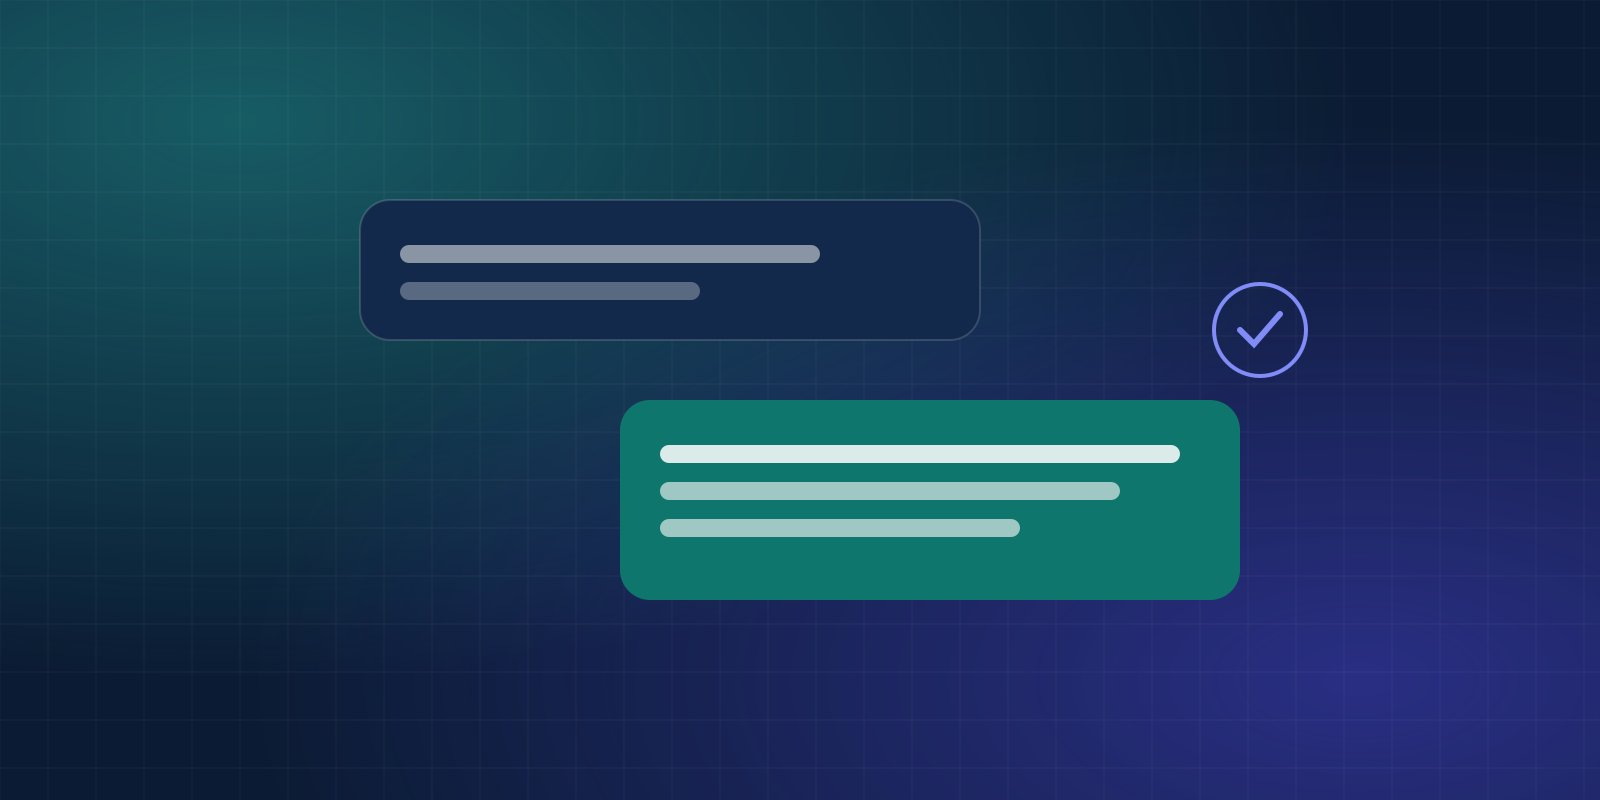
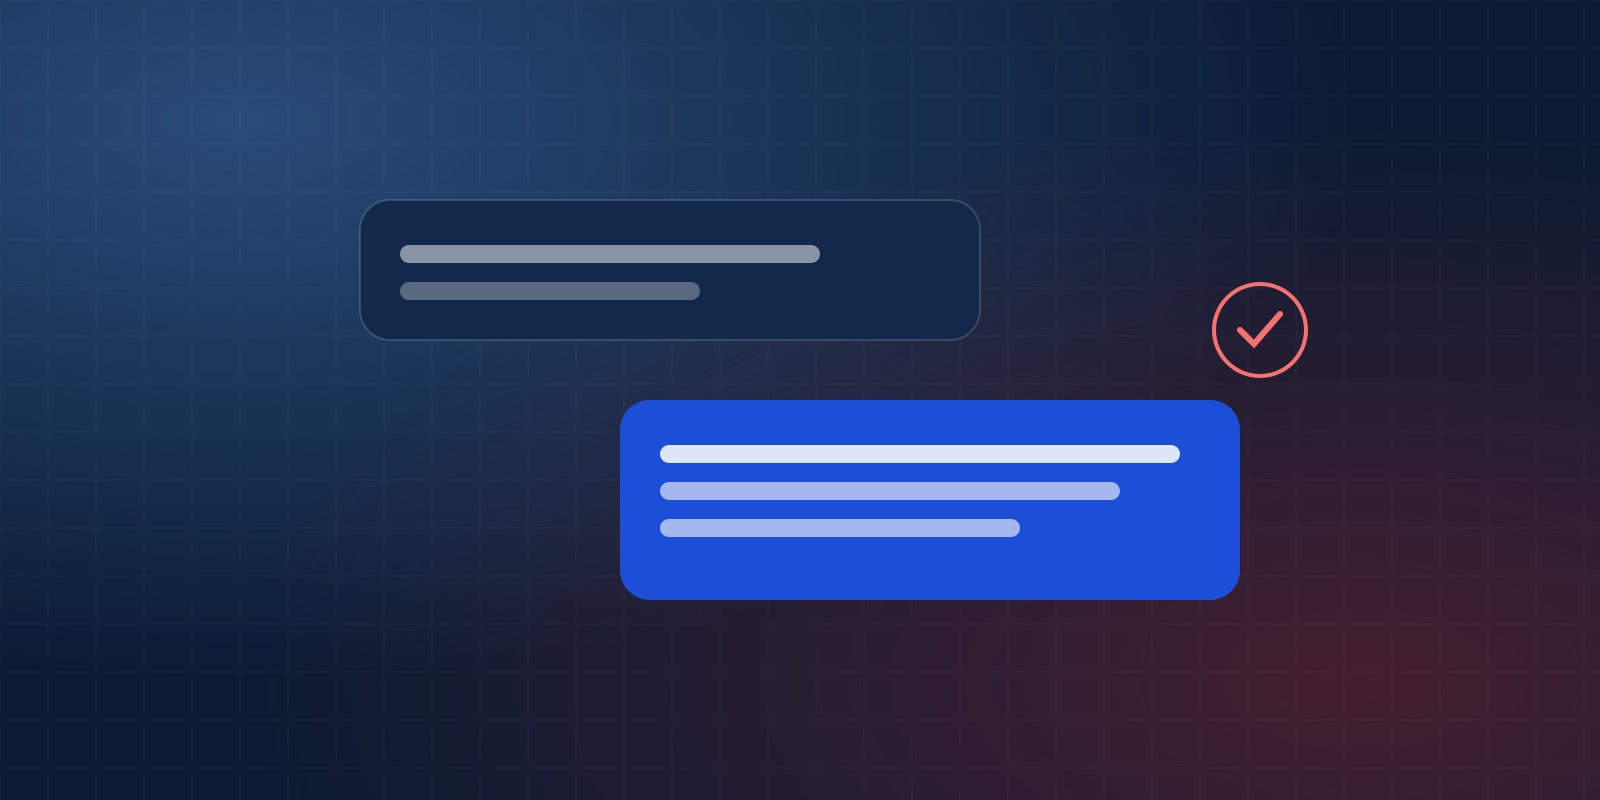
Rebrand to Downstream Data Co. with blue primary and red accent
- Blue (#1d4ed8) for buttons, links and icons; red (#c62828) for section
  toppers, footer underlines and highlights; light variants on dark backgrounds
- New stream-and-data-point logo mark, favicon set and web app manifest
- Regenerated blog, demo and social share images in the new palette

Claude-Session: https://claude.ai/code/session_0199oidjHc4GMQ1efpyZPG3X

diff --git a/src/index.html b/src/index.html
@@ -59,8 +59,8 @@ eleventyComputed:
                 <svg viewBox="0 0 480 380" xmlns="http://www.w3.org/2000/svg" focusable="false">
                     <defs>
                         <linearGradient id="hero-area" x1="0" y1="0" x2="0" y2="1">
-                            <stop offset="0" stop-color="#2dd4bf" stop-opacity=".45"/>
-                            <stop offset="1" stop-color="#2dd4bf" stop-opacity="0"/>
+                            <stop offset="0" stop-color="#60a5fa" stop-opacity=".45"/>
+                            <stop offset="1" stop-color="#60a5fa" stop-opacity="0"/>
                         </linearGradient>
                     </defs>
                     <!-- Main card -->
@@ -73,7 +73,7 @@ eleventyComputed:
                         <rect x="20" y="48" width="138" height="72" rx="10" fill="rgba(255,255,255,.06)"/>
                         <text x="34" y="74" font-size="11" fill="#94a3b8">Revenue (MTD)</text>
                         <text x="34" y="102" font-size="22" font-weight="700" fill="#f8fafc">$84.2k</text>
-                        <text x="112" y="102" font-size="11" font-weight="700" fill="#2dd4bf">+12%</text>
+                        <text x="112" y="102" font-size="11" font-weight="700" fill="#60a5fa">+12%</text>
 
                         <rect x="171" y="48" width="138" height="72" rx="10" fill="rgba(255,255,255,.06)"/>
                         <text x="185" y="74" font-size="11" fill="#94a3b8">Hours automated</text>
@@ -92,17 +92,17 @@ eleventyComputed:
                         <line x1="36" y1="340" x2="294" y2="340"/>
                     </g>
                     <path d="M36 310 L72 296 L108 302 L144 270 L180 276 L216 238 L252 226 L294 186 L294 340 L36 340 Z" fill="url(#hero-area)"/>
-                    <path d="M36 310 L72 296 L108 302 L144 270 L180 276 L216 238 L252 226 L294 186" fill="none" stroke="#2dd4bf" stroke-width="3" stroke-linecap="round" stroke-linejoin="round"/>
-                    <path d="M252 226 L294 186" fill="none" stroke="#818cf8" stroke-width="3" stroke-dasharray="6 6"/>
-                    <circle cx="294" cy="186" r="5" fill="#818cf8"/>
+                    <path d="M36 310 L72 296 L108 302 L144 270 L180 276 L216 238 L252 226 L294 186" fill="none" stroke="#60a5fa" stroke-width="3" stroke-linecap="round" stroke-linejoin="round"/>
+                    <path d="M252 226 L294 186" fill="none" stroke="#f87171" stroke-width="3" stroke-dasharray="6 6"/>
+                    <circle cx="294" cy="186" r="5" fill="#f87171"/>
                     <text x="36" y="164" font-family="Roboto, Arial, sans-serif" font-size="12" font-weight="700" fill="#f8fafc">Sales vs. forecast</text>
                     <!-- Bar chart -->
                     <rect x="322" y="136" width="138" height="224" rx="10" fill="rgba(255,255,255,.04)"/>
                     <text x="336" y="164" font-family="Roboto, Arial, sans-serif" font-size="12" font-weight="700" fill="#f8fafc">By channel</text>
-                    <rect x="340" y="250" width="18" height="90" rx="3" fill="#2dd4bf"/>
-                    <rect x="366" y="210" width="18" height="130" rx="3" fill="#2dd4bf" opacity=".8"/>
-                    <rect x="392" y="280" width="18" height="60" rx="3" fill="#818cf8"/>
-                    <rect x="418" y="230" width="18" height="110" rx="3" fill="#818cf8" opacity=".8"/>
+                    <rect x="340" y="250" width="18" height="90" rx="3" fill="#60a5fa"/>
+                    <rect x="366" y="210" width="18" height="130" rx="3" fill="#60a5fa" opacity=".8"/>
+                    <rect x="392" y="280" width="18" height="60" rx="3" fill="#f87171"/>
+                    <rect x="418" y="230" width="18" height="110" rx="3" fill="#f87171" opacity=".8"/>
                 </svg>
                 <!-- Floating "automation" chip -->
                 <div class="cs-chip">

diff --git a/src/assets/less/root.less b/src/assets/less/root.less
@@ -14,10 +14,10 @@
 	/* All elements in the library derive their variables and base styles from this central sheet, simplifying site-wide edits. For instance, if you want to modify how your h2's appear across the site, you just update it once in the global styles, and the changes apply everywhere. */
 	:root {
 		/* Brand colors - change these to re-theme the whole site */
-		--primary: #0f766e; /* teal - buttons, links, accents */
-		--primaryLight: #2dd4bf; /* bright teal - accents on dark backgrounds */
-		--secondary: #4f46e5; /* indigo - gradients */
-		--secondaryLight: #818cf8;
+		--primary: #1d4ed8; /* blue - buttons, links, icons */
+		--primaryLight: #60a5fa; /* light blue - the same role on dark backgrounds */
+		--secondary: #c62828; /* red accent - section toppers, underlines, highlights */
+		--secondaryLight: #f87171; /* light red - the same role on dark backgrounds */
 		--headerColor: #0b1b33; /* deep navy - headings */
 		--bodyTextColor: #475569;
 		--bodyTextColorWhite: #f8fafc;
@@ -70,9 +70,13 @@
 		text-align: inherit;
 		letter-spacing: 0.1em;
 		font-weight: 700;
-		color: var(--primary);
+		color: var(--secondary);
 		margin-bottom: 0.25rem;
 		display: block;
+	}
+
+	body.dark-mode .cs-topper {
+		color: var(--secondaryLight);
 	}
 
 	.cs-title {
@@ -1263,7 +1267,7 @@
 		}
 
 		.cs-topper {
-			color: var(--primaryLight);
+			color: var(--secondaryLight);
 		}
 
 		.cs-button-group {
@@ -1417,7 +1421,7 @@
 				width: (32/16rem);
 				height: (4/16rem);
 				margin: (16/16rem) auto (24/16rem) 0;
-				background: var(--primary);
+				background: var(--secondaryLight);
 				opacity: 1;
 				position: relative;
 				display: block;
@@ -1557,8 +1561,8 @@
 	background-color: var(--navy);
 	background-image: linear-gradient(rgba(255, 255, 255, 0.04) 1px, transparent 1px),
 		linear-gradient(90deg, rgba(255, 255, 255, 0.04) 1px, transparent 1px),
-		radial-gradient(ellipse at 85% 10%, rgba(45, 212, 191, 0.28), transparent 55%),
-		radial-gradient(ellipse at 10% 90%, rgba(79, 70, 229, 0.35), transparent 55%);
+		radial-gradient(ellipse at 85% 10%, rgba(96, 165, 250, 0.28), transparent 55%),
+		radial-gradient(ellipse at 10% 90%, rgba(198, 40, 40, 0.22), transparent 55%);
 	background-size: 48px 48px, 48px 48px, 100% 100%, 100% 100%;
 }
 
@@ -1710,7 +1714,7 @@
 			padding: (12/16rem);
 			border-radius: (12/16rem);
 			color: var(--primary);
-			background-color: rgba(15, 118, 110, 0.1);
+			background-color: rgba(29, 78, 216, 0.1);
 
 			svg {
 				width: 100%;
@@ -1778,7 +1782,7 @@
 
 			.cs-icon {
 				color: var(--primaryLight);
-				background-color: rgba(45, 212, 191, 0.12);
+				background-color: rgba(96, 165, 250, 0.12);
 			}
 
 			.cs-h3 {
@@ -2066,12 +2070,12 @@
 
 	.cs-work-kind {
 		color: var(--primary);
-		background-color: rgba(15, 118, 110, 0.1);
+		background-color: rgba(29, 78, 216, 0.1);
 	}
 
 	.cs-work-soon {
 		color: var(--secondary);
-		background-color: rgba(79, 70, 229, 0.1);
+		background-color: rgba(198, 40, 40, 0.1);
 	}
 
 	.cs-work-draft {
@@ -2115,12 +2119,12 @@
 
 		.cs-work-kind {
 			color: var(--primaryLight);
-			background-color: rgba(45, 212, 191, 0.12);
+			background-color: rgba(96, 165, 250, 0.12);
 		}
 
 		.cs-work-soon {
 			color: var(--secondaryLight);
-			background-color: rgba(129, 140, 248, 0.15);
+			background-color: rgba(248, 113, 113, 0.15);
 		}
 	}
 }

diff --git a/src/assets/less/work.less b/src/assets/less/work.less
@@ -262,7 +262,7 @@
             font-weight: 700;
             border-radius: (20/16rem);
             color: var(--primary);
-            background-color: rgba(15, 118, 110, 0.1);
+            background-color: rgba(29, 78, 216, 0.1);
         }
 
         .cs-side-cta {
@@ -345,7 +345,7 @@
             }
 
             .cs-tag {
-                background-color: rgba(45, 212, 191, 0.12);
+                background-color: rgba(96, 165, 250, 0.12);
             }
 
             .cs-side-block {
@@ -412,7 +412,7 @@
             font-weight: 700;
             border-radius: (20/16rem);
             color: var(--primary);
-            background-color: rgba(15, 118, 110, 0.1);
+            background-color: rgba(29, 78, 216, 0.1);
         }
 
         .cs-rag-badge-sample {
@@ -732,11 +732,11 @@
 
             &.is-retrieved {
                 border-color: var(--primary);
-                background-color: rgba(15, 118, 110, 0.06);
+                background-color: rgba(29, 78, 216, 0.06);
             }
 
             &.is-cited {
-                background-color: rgba(15, 118, 110, 0.14);
+                background-color: rgba(29, 78, 216, 0.14);
             }
 
             &.is-weak {
@@ -804,10 +804,10 @@
 
     @keyframes rag-flash {
         0% {
-            box-shadow: 0 0 0 4px rgba(45, 212, 191, 0.7);
+            box-shadow: 0 0 0 4px rgba(96, 165, 250, 0.7);
         }
         100% {
-            box-shadow: 0 0 0 0 rgba(45, 212, 191, 0);
+            box-shadow: 0 0 0 0 rgba(96, 165, 250, 0);
         }
     }
 }
@@ -906,11 +906,11 @@
 
             &.is-retrieved {
                 border-color: var(--primaryLight);
-                background-color: rgba(45, 212, 191, 0.08);
+                background-color: rgba(96, 165, 250, 0.08);
             }
 
             &.is-cited {
-                background-color: rgba(45, 212, 191, 0.16);
+                background-color: rgba(96, 165, 250, 0.16);
             }
 
             &.is-weak {

diff --git a/src/assets/less/services.less b/src/assets/less/services.less
@@ -38,7 +38,7 @@
 
         .cs-featured {
             border: 2px solid var(--primary);
-            box-shadow: 0 20px 40px -20px rgba(15, 118, 110, 0.4);
+            box-shadow: 0 20px 40px -20px rgba(29, 78, 216, 0.4);
         }
 
         .cs-badge {
@@ -111,7 +111,7 @@
             padding: (14/16rem);
             border-radius: (14/16rem);
             color: var(--primary);
-            background-color: rgba(15, 118, 110, 0.1);
+            background-color: rgba(29, 78, 216, 0.1);
 
             svg {
                 width: 100%;
@@ -299,7 +299,7 @@
             font-weight: 700;
             border-radius: (20/16rem);
             color: var(--primary);
-            background-color: rgba(15, 118, 110, 0.1);
+            background-color: rgba(29, 78, 216, 0.1);
         }
     }
 }
@@ -381,7 +381,7 @@
             padding: (8/16rem);
             border-radius: (8/16rem);
             color: var(--primary);
-            background-color: rgba(15, 118, 110, 0.1);
+            background-color: rgba(29, 78, 216, 0.1);
 
             svg {
                 width: 100%;
@@ -441,7 +441,7 @@
         #other-services .cs-icon,
         #examples .cs-tag {
             color: var(--primaryLight);
-            background-color: rgba(45, 212, 191, 0.12);
+            background-color: rgba(96, 165, 250, 0.12);
         }
 
         #engagements,

diff --git a/src/assets/less/contact.less b/src/assets/less/contact.less
@@ -67,7 +67,7 @@
             &:focus {
                 outline: none;
                 border-color: var(--primary);
-                box-shadow: 0 0 0 3px rgba(15, 118, 110, 0.2);
+                box-shadow: 0 0 0 3px rgba(29, 78, 216, 0.2);
             }
 
             &::placeholder {
@@ -140,7 +140,7 @@
             padding: (8/16rem);
             border-radius: (8/16rem);
             color: var(--primary);
-            background-color: rgba(15, 118, 110, 0.1);
+            background-color: rgba(29, 78, 216, 0.1);
 
             svg {
                 width: 100%;
@@ -257,7 +257,7 @@
 
             .cs-contact-icon {
                 color: var(--primaryLight);
-                background-color: rgba(45, 212, 191, 0.12);
+                background-color: rgba(96, 165, 250, 0.12);
             }
         }
     }

diff --git a/src/assets/less/critical.less b/src/assets/less/critical.less
@@ -38,7 +38,7 @@
         }
 
         .cs-topper {
-            color: var(--primaryLight);
+            color: var(--secondaryLight);
         }
 
         .cs-title {
@@ -193,7 +193,7 @@
     background-color: var(--navy);
     background-image: linear-gradient(rgba(255, 255, 255, 0.04) 1px, transparent 1px),
         linear-gradient(90deg, rgba(255, 255, 255, 0.04) 1px, transparent 1px),
-        radial-gradient(ellipse at 85% 10%, rgba(45, 212, 191, 0.28), transparent 55%),
-        radial-gradient(ellipse at 10% 90%, rgba(79, 70, 229, 0.35), transparent 55%);
+        radial-gradient(ellipse at 85% 10%, rgba(96, 165, 250, 0.28), transparent 55%),
+        radial-gradient(ellipse at 10% 90%, rgba(198, 40, 40, 0.22), transparent 55%);
     background-size: 48px 48px, 48px 48px, 100% 100%, 100% 100%;
 }

diff --git a/src/_data/client.js b/src/_data/client.js
@@ -5,8 +5,8 @@
 // ─────────────────────────────────────────────────────────────────────────────
 
 module.exports = {
-    // TODO: working name - replace with your registered business name
-    name: "Brightline Data Co.",
+    // Business name - shown in the logo, page titles, footer and SEO data
+    name: "Downstream Data Co.",
     // Short line used under the logo in the footer and in the home page meta description
     tagline: "Data, AI & software for local small businesses",
     // TODO: your name + title, used on the About page and as the default blog author

diff --git a/src/assets/less/local.less b/src/assets/less/local.less
@@ -66,7 +66,7 @@
             display: block;
             border-radius: (10/16rem);
             color: var(--primary);
-            background-color: rgba(15, 118, 110, 0.1);
+            background-color: rgba(29, 78, 216, 0.1);
 
             svg {
                 width: 100%;
@@ -136,7 +136,7 @@
 
             .cs-value-icon {
                 color: var(--primaryLight);
-                background-color: rgba(45, 212, 191, 0.12);
+                background-color: rgba(96, 165, 250, 0.12);
             }
 
             .cs-value-text {
